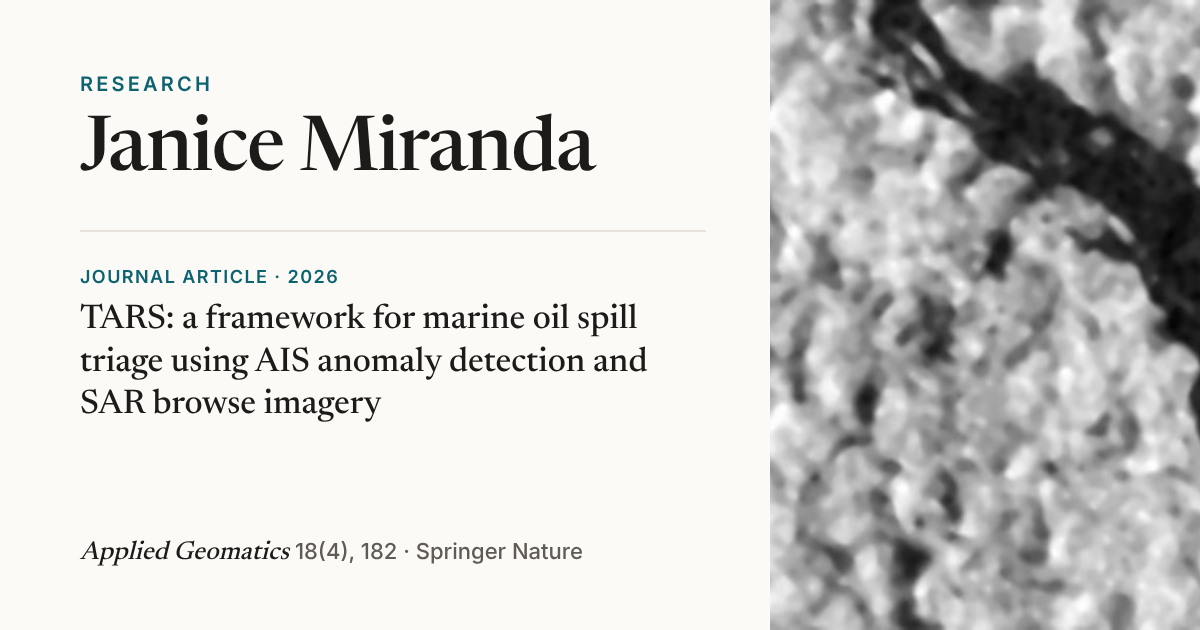
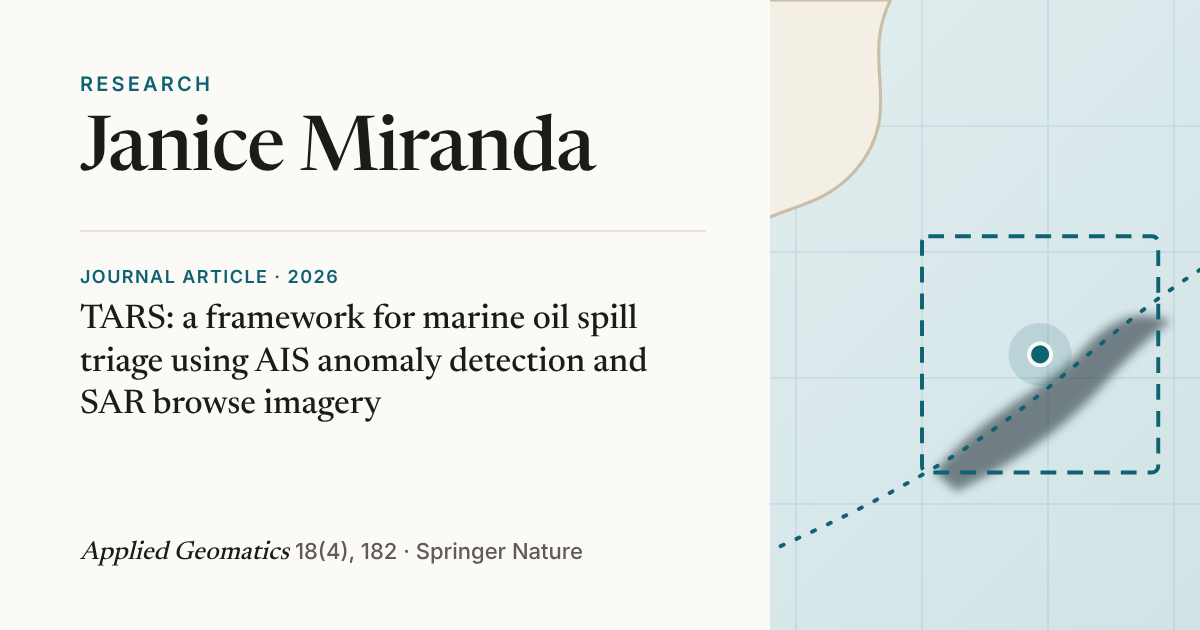
Illustrated thumbnail; remove focus line

diff --git a/index.html b/index.html
@@ -56,7 +56,7 @@
              color: var(--ocean); margin: 0 0 14px; }
   h1 { font: 500 clamp(2.6rem, 7vw, 3.6rem)/1.05 "Newsreader", Georgia, serif; letter-spacing: -0.02em; margin: 0 0 14px; }
   .focus { font: italic 400 1.3rem/1.45 "Newsreader", Georgia, serif; color: #34322e; margin: 0 0 6px; max-width: 32em; }
-  .role { color: var(--faint); font-size: 0.95rem; margin: 0 0 26px; max-width: 34em; }
+  .role { color: var(--soft); font-size: 1.05rem; margin: 0 0 26px; max-width: 34em; }
   .links { display: flex; flex-wrap: wrap; gap: 6px 22px; font-size: 0.95rem; font-weight: 500; }
   .links a { color: var(--ink); border-bottom: 1px solid var(--rule); padding-bottom: 2px; transition: border-color .15s, color .15s; }
   .links a:hover { color: var(--ocean); border-color: var(--ocean); }
@@ -130,7 +130,6 @@
   <div class="wrap">
     <p class="eyebrow">Research</p>
     <h1>Janice Miranda</h1>
-    <p class="focus">Machine learning on underexplored sensing data: satellite radar, ship tracking and acoustics.</p>
     <p class="role">Computer Engineering, Don Bosco Institute of Technology, Mumbai</p>
     <nav class="links">
       <a href="https://orcid.org/0009-0000-3700-7300">ORCID</a>
@@ -144,7 +143,7 @@
   <div class="section-head"><h2>Publications</h2><span class="count">1 journal article</span></div>
 
   <article class="pub">
-    <a class="thumb" href="https://rdcu.be/mXU4jmgRC9Ua"><img src="img/tars_thumb.jpg" alt="Sentinel-1 browse image crop of a coastal area with an oil slick, from the TARS paper"></a>
+    <a class="thumb" href="https://rdcu.be/mXU4jmgRC9Ua"><img src="img/tars_thumb.svg" alt="Illustration: a flagged vessel on its track, a 25 km crop around it and an oil slick inside the crop"></a>
     <div>
       <p class="kicker"><span class="type">Journal article</span><span class="dot"></span><span class="status">Published November 2026</span></p>
       <h3 class="pub-title"><a href="https://rdcu.be/mXU4jmgRC9Ua">TARS: a framework for marine oil spill triage using AIS anomaly detection and SAR browse imagery</a></h3>
